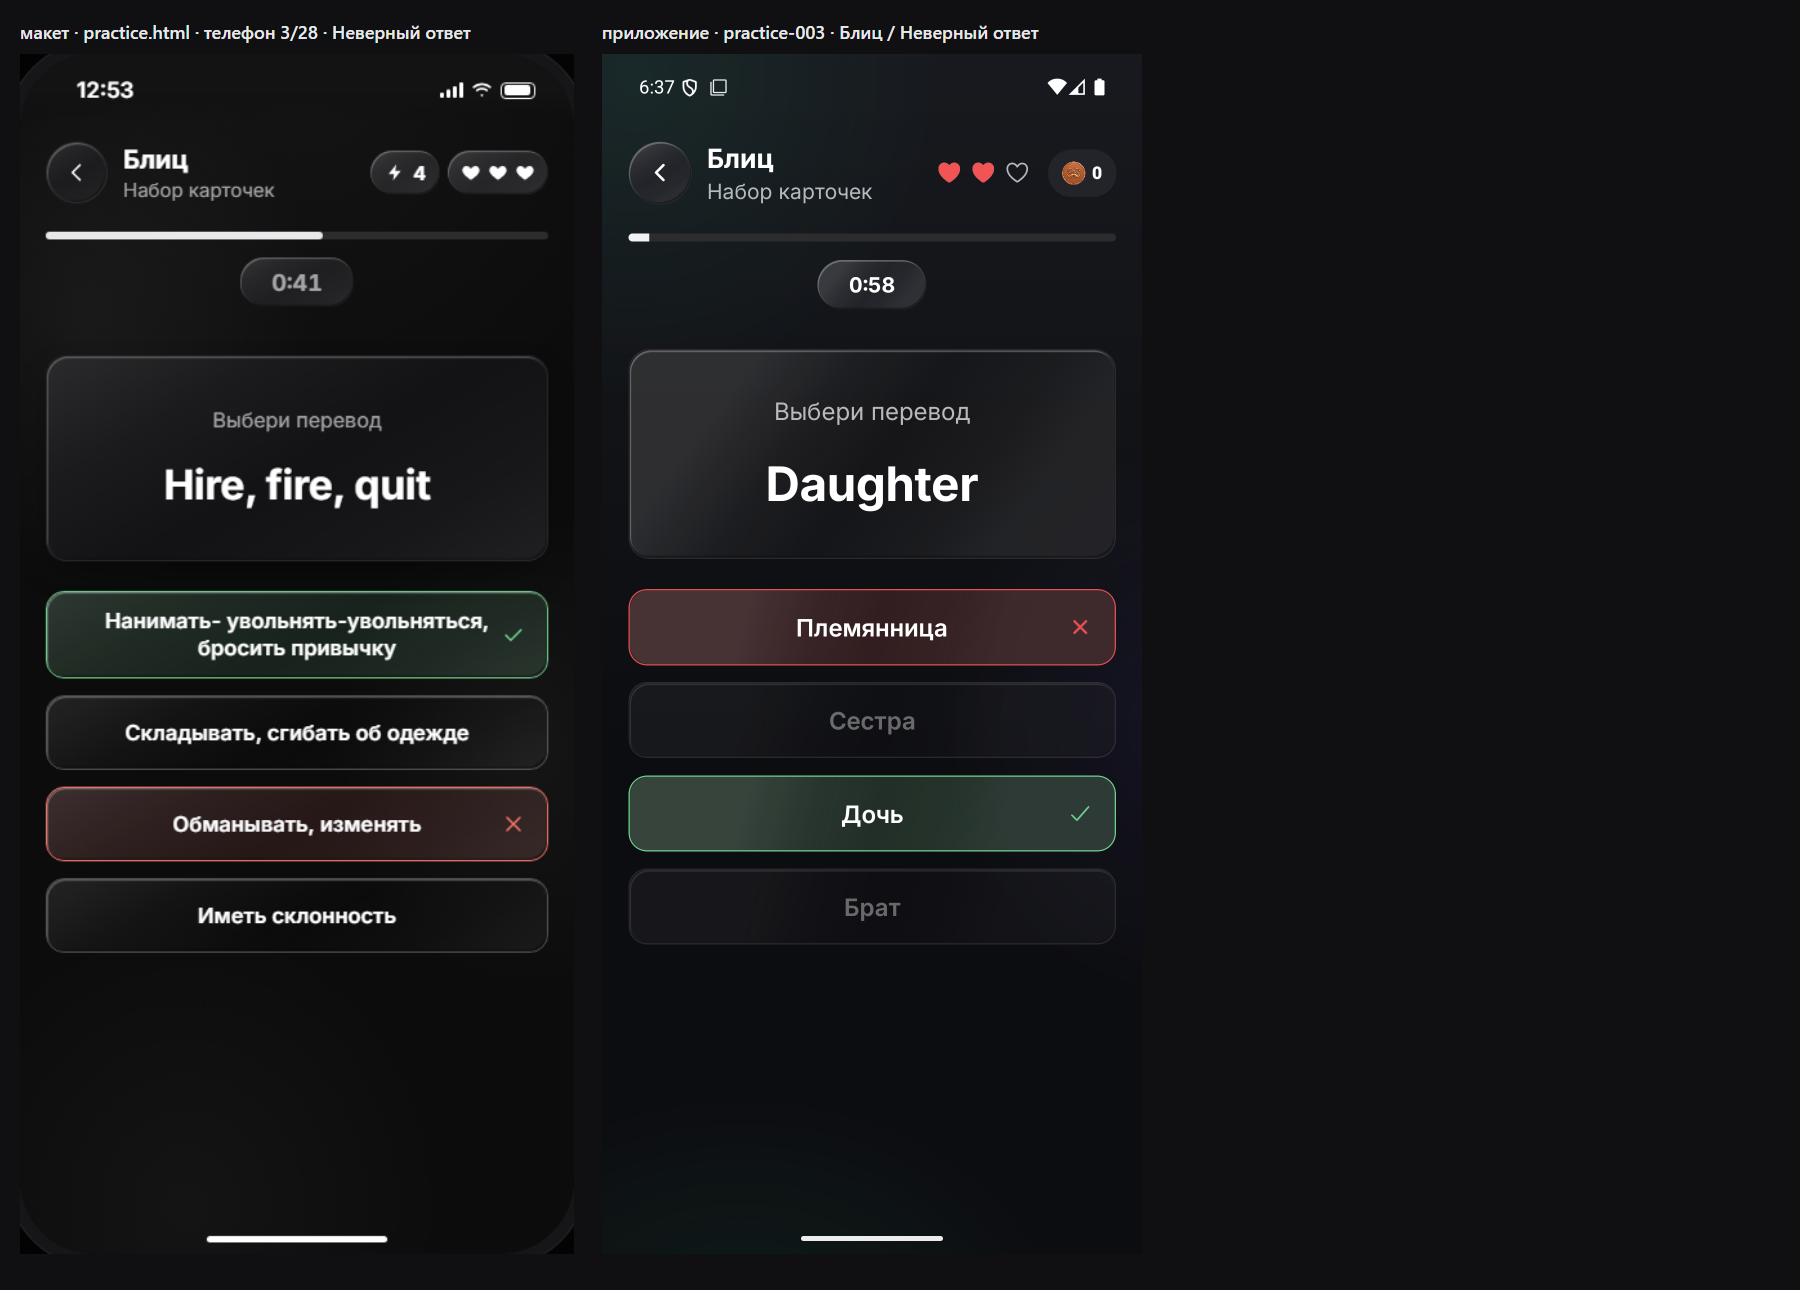
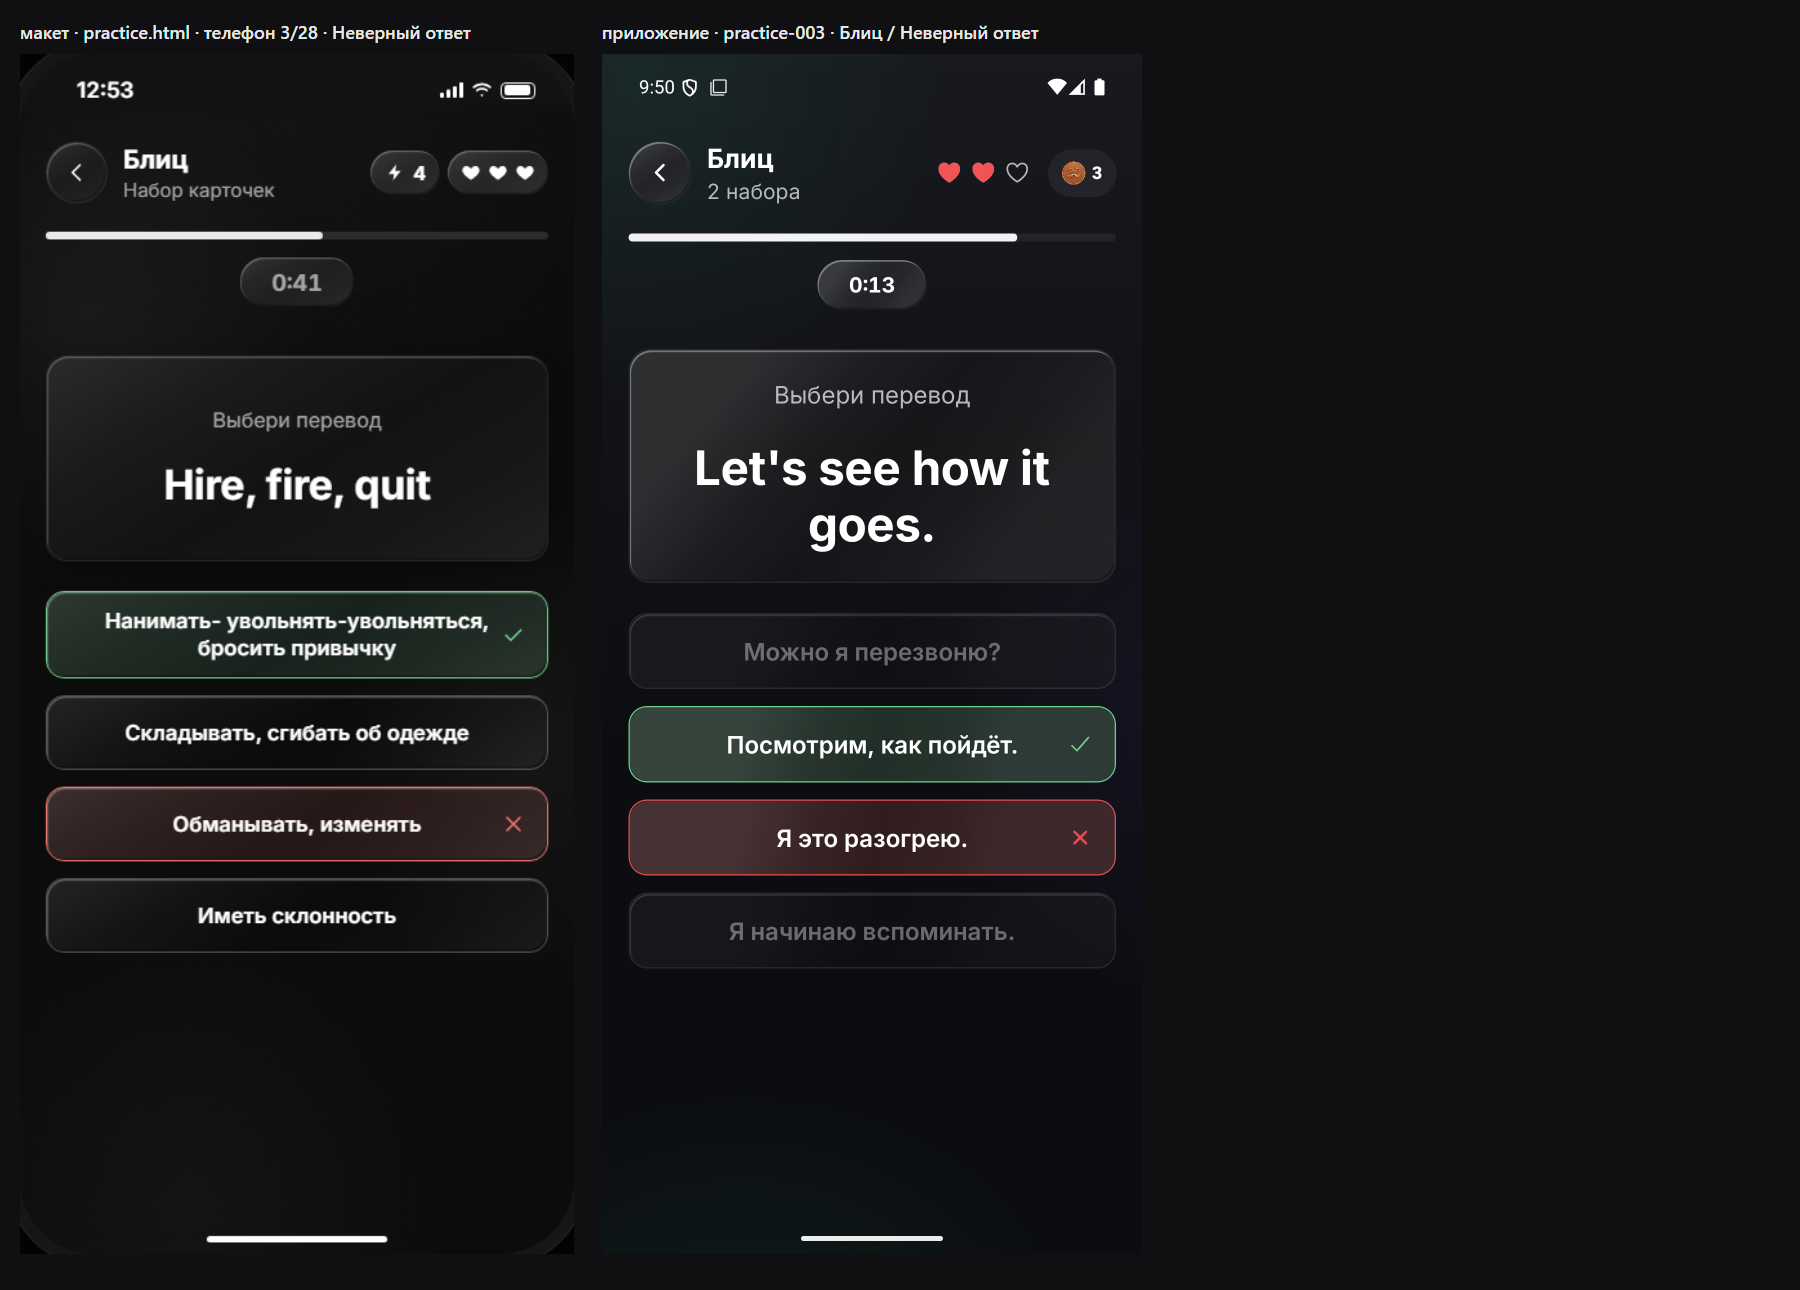
docs(parity): practice-001..003 Блиц в игре

Changed region(s): [[0.3422, 0.2791, 0.6222, 0.7442], [0.3733, 0.124, 0.56, 0.186], [0.3422, 0.062, 0.3733, 0.093]]

diff --git a/docs/phraseman-2.0/INBOX_COORDINATOR_FROM_SVERKA.md b/docs/phraseman-2.0/INBOX_COORDINATOR_FROM_SVERKA.md
@@ -500,3 +500,7 @@ cards-section-032 после 1d993b5c4 почти совпадает (шторк
 
 ## 2026-10-10 ~21:40 · СВЕРКА — сводная таблица вердиктов за вечер
 Файл: `docs/phraseman-2.0/INBOX_VERDICT_TABLE_2026-10-10.md` (экран → совпал/отличие/не снято → что именно → кому). Кандидаты на match: cards-section-001/032/033, mistakes-panel-002/004.
+
+- 21:46–21:48: после возврата эмулятора приложение показало красный экран «SyntaxError 186896:74 ':' expected in property initialization» (код вкладок с TAB_SCROLL_*, чужая правка в момент сборки); через ~2 мин сборка собралась, красный экран лечился только force-stop + запуск (Reload по меню не помогал, LogBox закрывал меню). Теперь тёмная «Аврора», Главная, урок 1 на 2/50 (после снимка 21:31 прогресс слегка другой).
+
+- **practice-001/002/003 (Блиц в игре, тёмная): СОВПАЛИ** по форме/составу/порядку; пометка: нет пилюли энергии ⚡ в шапке (Plus: блиц безлимитен). Кандидаты на match. Светлую не снимала.
